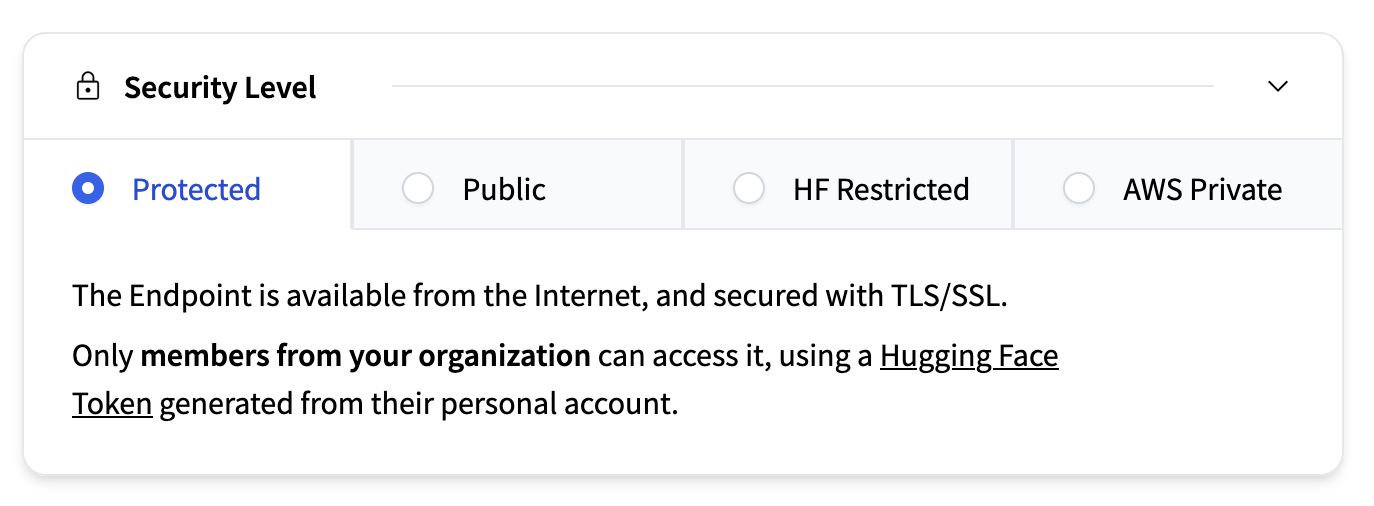
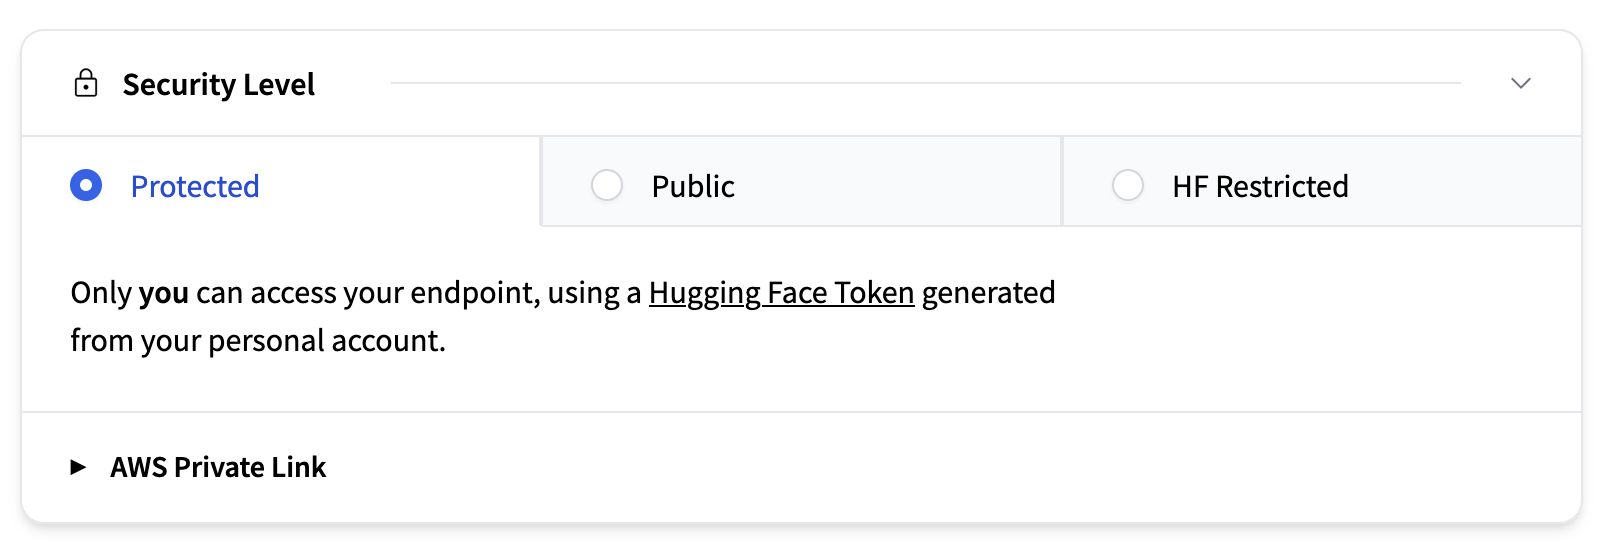
update docs for security

diff --git a/docs/source/guides/configuration.md b/docs/source/guides/configuration.md
@@ -42,9 +42,10 @@ selected region are grayed out and unclickable.
 
 This section determines who can access your deployed endpoint. Available options are:
 - **Protected (default)**: Accessible only to members of your Hugging Face organization using personal access tokens. The endpoint is secured with TLS/SSL.
-- **Public**: Anyone on the internet can access the endpoint.
+- **Public**: Anyone can access your endpoint, without authentication.
 - **HF Restricted**: Anyone with a Hugging Face account can access it, using a personal Hugging Face Token generated from their account.
-- **AWS Private**: The endpoint is only available through an intra-region secured AWS PrivateLink connection.
+
+Additionally, if you deploy your Inference Endpoint in AWS, you can use **AWS Private Link** for an intra-region secured connection to your AWS VPN.
 
 ![security](https://raw.githubusercontent.com/huggingface/hf-endpoints-documentation/main/assets/configuration/3-security.png)
 
